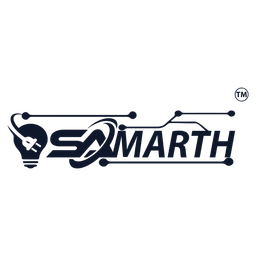
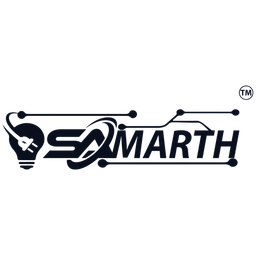
feat: add brand assets and responsive Navbar component

Changed region(s): [[0.0, 0.3125, 1.0, 0.6875]]

diff --git a/samarth-electronics/src/components/layout/Navbar.tsx b/samarth-electronics/src/components/layout/Navbar.tsx
@@ -34,22 +34,22 @@ export default function Navbar() {
       </div>
 
       {/* Main nav */}
-      <nav className="max-w-7xl mx-auto px-4 sm:px-6 lg:px-8 flex items-center justify-between h-16">
+      <nav className="max-w-7xl mx-auto px-4 sm:px-6 lg:px-8 flex items-center justify-between h-20">
         {/* Logo */}
-        <Link href="/" className="flex items-center gap-3 group py-1">
+        <Link href="/" className="flex items-center gap-3.5 group py-1 shrink-0">
           <Image
             src="/images/logo.png"
             alt="SAMARTH Logo"
-            width={140}
-            height={44}
-            className="h-10 w-auto object-contain"
+            width={180}
+            height={63}
+            className="h-11 sm:h-12 w-auto object-contain transition-transform group-hover:scale-[1.02]"
             priority
           />
-          <div className="border-l border-gray-200 pl-2.5 hidden sm:block">
-            <span className="text-orange-500 text-[11px] font-bold tracking-wider uppercase block leading-tight">
+          <div className="border-l border-gray-200 pl-3 hidden sm:flex flex-col justify-center">
+            <span className="text-orange-500 text-xs font-bold tracking-wider uppercase leading-tight">
               ELECTRONICS HUB
             </span>
-            <span className="text-gray-400 text-[9px] font-medium tracking-normal block leading-tight">
+            <span className="text-gray-400 text-[10px] font-medium tracking-normal mt-0.5 leading-tight">
               Dahod · Gujarat
             </span>
           </div>
